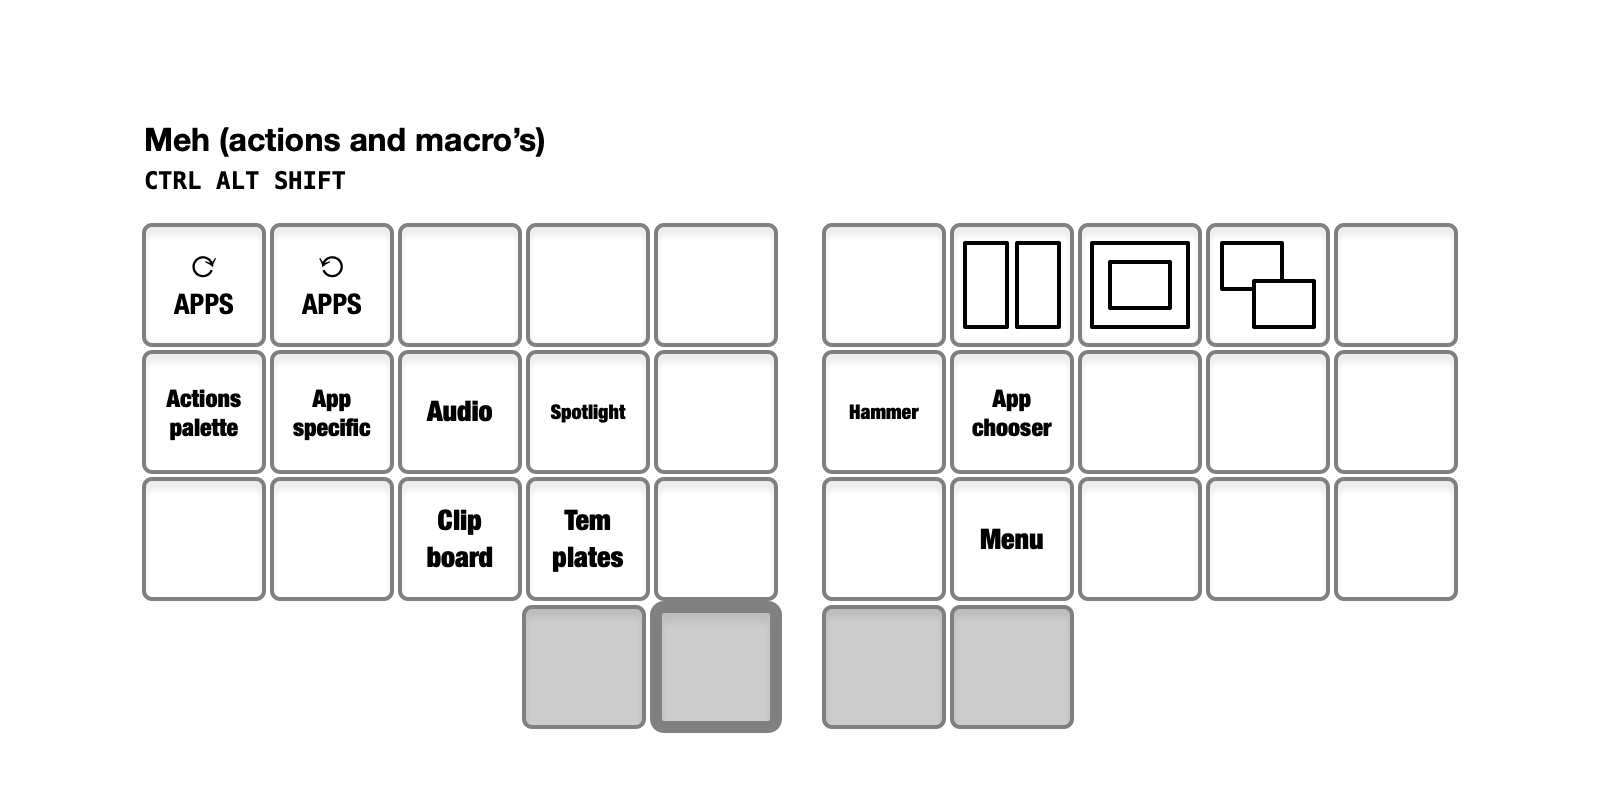
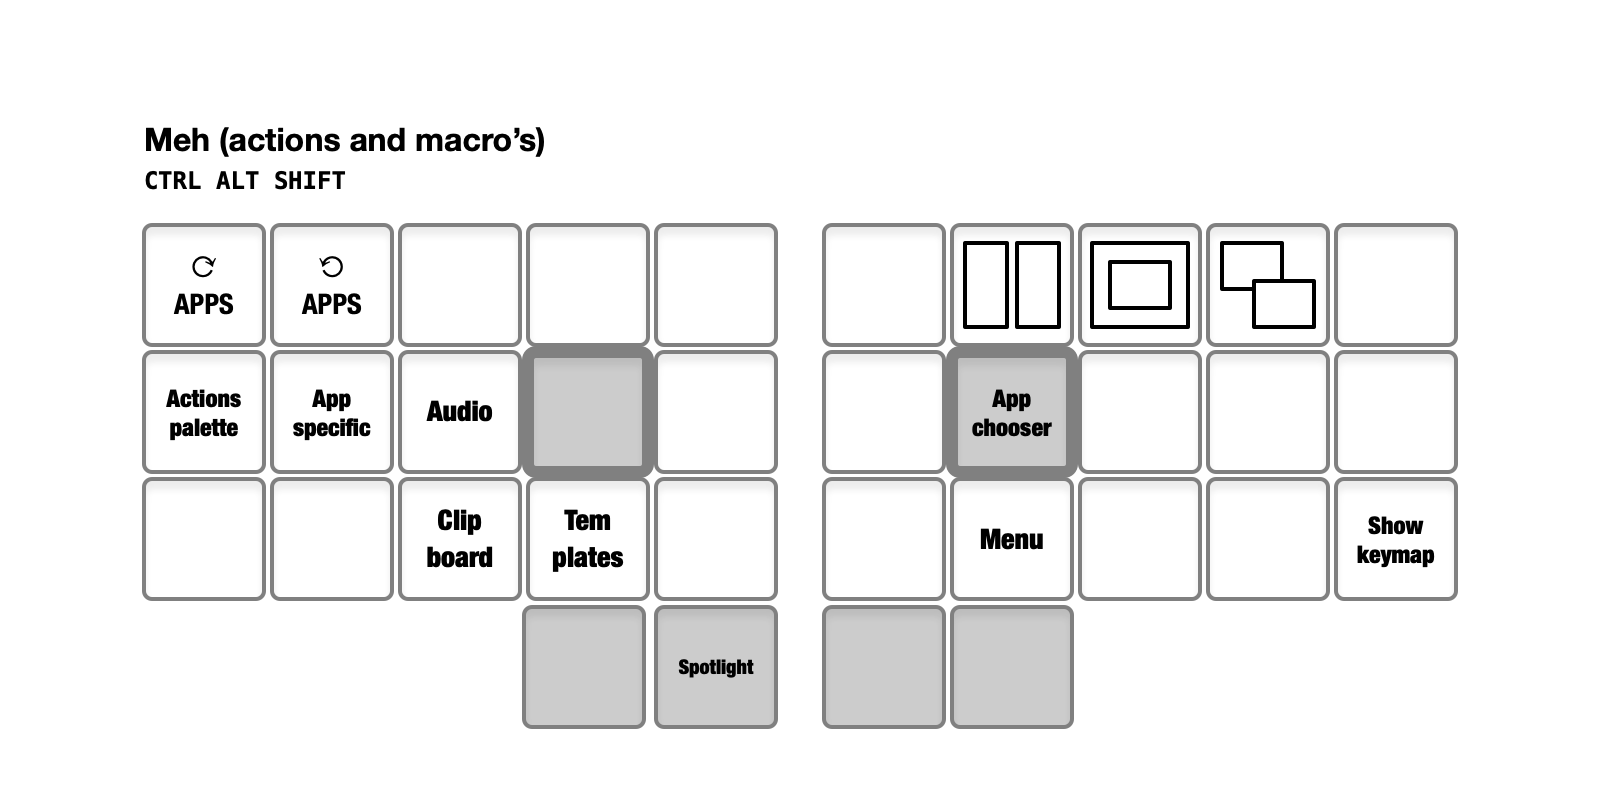
Fixed keyboard and added showkeymap in hammerspoon

diff --git a/moonlander/threesixbase.c b/moonlander/threesixbase.c
@@ -15,8 +15,8 @@ enum combos {
 
 uint16_t COMBO_LEN = COMBO_LENGTH;
 
-const uint16_t PROGMEM df_combo[]   = {LCTL_T(KC_D), LALT_T(KC_F), COMBO_END};
-const uint16_t PROGMEM jk_combo[]   = {RALT_T(KC_J), RCTL_T(KC_K), COMBO_END};
+const uint16_t PROGMEM df_combo[]   = {LALT_T(KC_D), MEH_T(KC_F), COMBO_END};
+const uint16_t PROGMEM jk_combo[]   = {MEH_T(KC_J), RALT_T(KC_K), COMBO_END};
 
 combo_t key_combos[] = {
     // D+F = TAB
@@ -238,15 +238,15 @@ qk_tap_dance_action_t tap_dance_actions[] = {
 // Mid row
 
 #define KR_0_2_1 KC_A
-#define KR_0_2_2 KC_S
-#define KR_0_2_3 LCTL_T(KC_D)
-#define KR_0_2_4 LALT_T(KC_F)
+#define KR_0_2_2 LCTL_T(KC_S)
+#define KR_0_2_3 LALT_T(KC_D)
+#define KR_0_2_4 MEH_T(KC_F)
 #define KR_0_2_5 KC_G
 //
 #define KR_0_2_6 KC_H
-#define KR_0_2_7 RALT_T(KC_J)
-#define KR_0_2_8 RCTL_T(KC_K)
-#define KR_0_2_9 KC_L
+#define KR_0_2_7 MEH_T(KC_J)
+#define KR_0_2_8 RALT_T(KC_K)
+#define KR_0_2_9 RCTL_T(KC_L)
 #define KR_0_2_10 KC_P
 
 // Bottom row
@@ -267,7 +267,7 @@ qk_tap_dance_action_t tap_dance_actions[] = {
 
 #define KR_0_4_1 KC_NO
 #define KR_0_4_2 OSM(MOD_LSFT)
-#define KR_0_4_3 MEH_T(KC_SPACE)
+#define KR_0_4_3 KC_SPACE
 
 #define KR_0_4_4 TO(1)
 #define KR_0_4_5 OSM(MOD_LGUI)
@@ -277,13 +277,13 @@ qk_tap_dance_action_t tap_dance_actions[] = {
 // ###### Layer 1 Symbols and arrow keys
 
 #define KR_1_1_1 KC_ESC
-#define KR_1_1_2 KC_HASH
+#define KR_1_1_2 KC_TILD
 #define KR_1_1_3 LSFT(KC_LBRC)
 #define KR_1_1_4 LSFT(KC_RBRC)
 #define KR_1_1_5 KC_ASTR
 // LOPT(KC_SCLN) // …
-#define KR_1_1_6 KC_TILD
-#define KR_1_1_7 KC_AMPR
+#define KR_1_1_6 KC_AMPR
+#define KR_1_1_7 KC_HASH
 #define KR_1_1_8 KC_UP
 #define KR_1_1_9 LSFT(KC_6) // ^
 #define KR_1_1_10 KC_BSPC
@@ -292,8 +292,8 @@ qk_tap_dance_action_t tap_dance_actions[] = {
 
 #define KR_1_2_1 KC_TAB
 #define KR_1_2_2 LSFT(KC_2) // @
-#define KR_1_2_3 LCTL_T(KC_LBRC)
-#define KR_1_2_4 LALT_T(KC_RBRC)
+#define KR_1_2_3 KC_LPRN
+#define KR_1_2_4 KC_RPRN
 #define KR_1_2_5 KC_PPLS
 //
 #define KR_1_2_6 KC_EXLM
@@ -305,9 +305,9 @@ qk_tap_dance_action_t tap_dance_actions[] = {
 // Lower row
 
 #define KR_1_3_1 LSFT(KC_BSLASH) // |
-#define KR_1_3_2 KC_BSLASH
-#define KR_1_3_3 KC_LPRN
-#define KR_1_3_4 KC_RPRN
+#define KR_1_3_2 LCTL_T(KC_BSLASH)
+#define KR_1_3_3 LALT_T(KC_LBRC)
+#define KR_1_3_4 MEH_T(KC_RBRC)
 #define KR_1_3_5 KC_PEQL
 //
 #define KR_1_3_6 LSFT(KC_MINUS) // _
@@ -342,21 +342,20 @@ qk_tap_dance_action_t tap_dance_actions[] = {
 
 #define KR_2_2_1 KC_TAB
 #define KR_2_2_2 KC_SPACE
-#define KR_2_2_3 LCTL_T(KC_DOT)
-#define KR_2_2_4 LALT_T(KC_MINUS)
+#define KR_2_2_3 KC_DOT
+#define KR_2_2_4 KC_MINUS
 #define KR_2_2_5 KC_PPLS
 //
 #define KR_2_2_6 KC_COLN
-#define KR_2_2_7 RALT_T(KC_4)
-#define KR_2_2_8 RCTL_T(KC_5)
+#define KR_2_2_7 KC_4
+#define KR_2_2_8 KC_5
 #define KR_2_2_9 KC_6
 #define KR_2_2_10 KC_ENTER
 
-
 #define KR_2_3_1 KC_NO
-#define KR_2_3_2 KC_NO
-#define KR_2_3_3 KC_NO
-#define KR_2_3_4 KC_SLSH
+#define KR_2_3_2 KC_LCTRL
+#define KR_2_3_3 KC_LALT
+#define KR_2_3_4 MEH_T(KC_SLSH)
 #define KR_2_3_5 KC_PEQL
 //
 #define KR_2_3_6 KC_0
@@ -376,9 +375,9 @@ qk_tap_dance_action_t tap_dance_actions[] = {
 // ##### Layer 3 Navigation
 
 #define KR_3_1_1 KC_ESC
-#define KR_3_1_2 KC_NO
+#define KR_3_1_2 KC_MS_ACCEL1
 #define KR_3_1_3 KC_MS_ACCEL2
-#define KR_3_1_4 KC_NO
+#define KR_3_1_4 LSG(KC_4) // Screenshot button `cmd shift 4`
 #define KR_3_1_5 KC_NO
 //
 #define KR_3_1_6 KC_MS_WH_DOWN
@@ -389,7 +388,7 @@ qk_tap_dance_action_t tap_dance_actions[] = {
 
 
 #define KR_3_2_1 KC_TAB
-#define KR_3_2_2 KC_MS_ACCEL2
+#define KR_3_2_2 KC_SPACE
 #define KR_3_2_3 KC_MS_ACCEL0
 #define KR_3_2_4 KC_MS_BTN1
 #define KR_3_2_5 KC_MS_BTN2
@@ -404,9 +403,9 @@ qk_tap_dance_action_t tap_dance_actions[] = {
 #define KR_3_3_1 KC_CAPS
 #define KR_3_3_2 KC_LCTRL
 #define KR_3_3_3 KC_LALT
-#define KR_3_3_4 KC_NO
+#define KR_3_3_4 KC_MEH
 #define KR_3_3_5 KC_NO
-//
+
 #define KR_3_3_6 KC_NO
 #define KR_3_3_7 KC_NO
 #define KR_3_3_8 KC_NO
